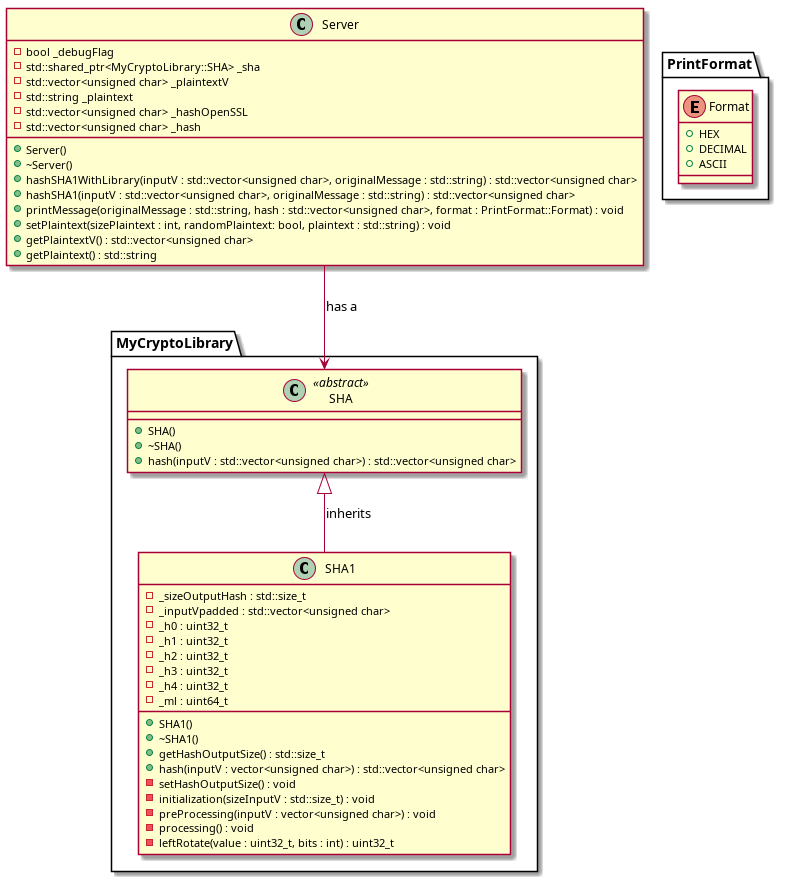
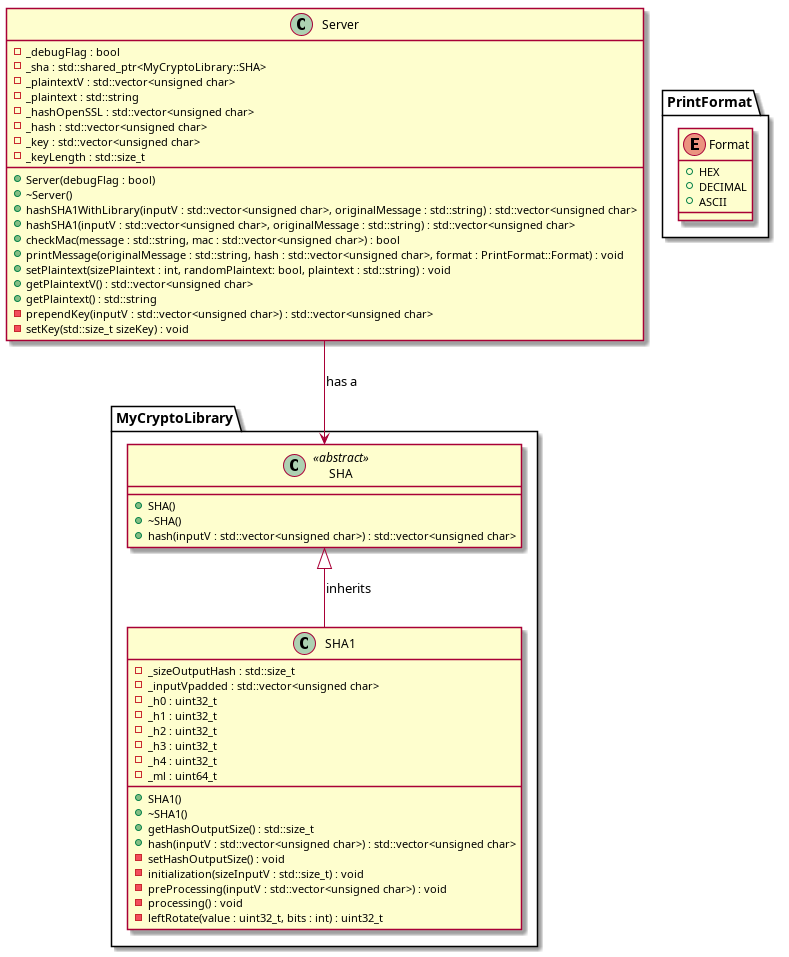
Update Uml

Changed region(s): [[0.0, 0.0, 0.8213, 1.0], [0.8213, 0.0306, 1.0, 0.2755]]

diff --git a/Cryptopals_resolutions/4-Set_4/cryptopals_set_4_problem_28/include/Server.hpp b/Cryptopals_resolutions/4-Set_4/cryptopals_set_4_problem_28/include/Server.hpp
@@ -18,7 +18,7 @@
 class Server {
 public:
   /* constructor / destructor */
-  Server();
+  Server(const bool debugFlag);
   ~Server();
 
   /* public methods */
@@ -123,7 +123,7 @@ private:
   void setKey(const std::size_t sizeKey);
 
 
-  bool _debugFlag = true;
+  const bool _debugFlag;
   std::shared_ptr<MyCryptoLibrary::SHA> _sha;
   std::vector<unsigned char> _plaintextV;
   std::string _plaintext;

diff --git a/Cryptopals_resolutions/4-Set_4/cryptopals_set_4_problem_28/src/cryptopals_set_4_problem_28.cpp b/Cryptopals_resolutions/4-Set_4/cryptopals_set_4_problem_28/src/cryptopals_set_4_problem_28.cpp
@@ -12,7 +12,8 @@ int main (void) {
   double time;
   start = clock();
   /* work to verify */
-  std::shared_ptr<Server> server = std::make_shared<Server>();
+  const bool debugFlag{true};
+  std::shared_ptr<Server> server = std::make_shared<Server>(debugFlag);
   const int sizePlaintext = 100;
   bool randomPlaintext {false};
   bool checkMac;

diff --git a/Cryptopals_resolutions/4-Set_4/cryptopals_set_4_problem_28/src/Server.cpp b/Cryptopals_resolutions/4-Set_4/cryptopals_set_4_problem_28/src/Server.cpp
@@ -10,7 +10,7 @@
 #include "./../include/Server.hpp"
 
 /* constructor / destructor */
-Server::Server() : _keyLength(SHA_DIGEST_LENGTH * 2) 
+Server::Server(const bool debugFlag) : _keyLength(SHA_DIGEST_LENGTH * 2), _debugFlag(debugFlag) 
 {
   Server::setKey(Server::_keyLength);
   _sha = std::make_shared<MyCryptoLibrary::SHA1>();
